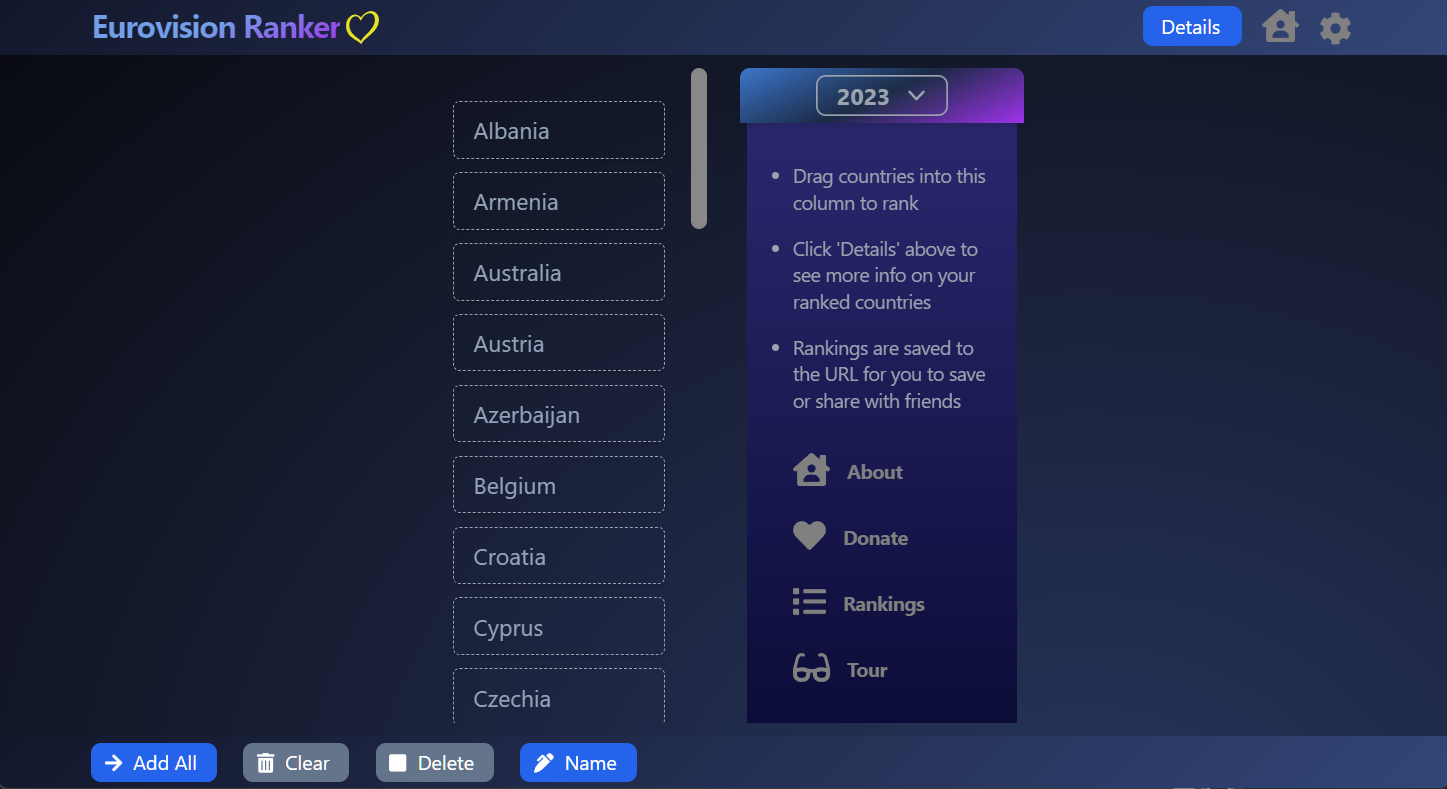
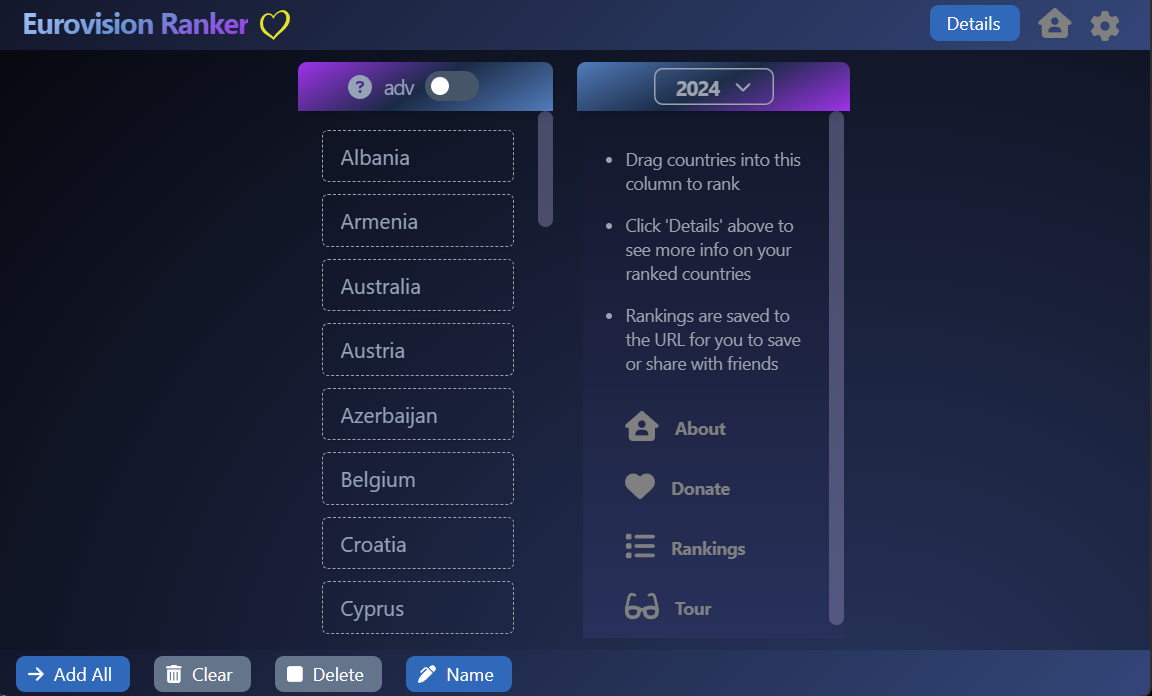
upgrade deps and euro ranker pics

diff --git a/src/components/Eurovision.js b/src/components/Eurovision.js
@@ -11,7 +11,10 @@ const imagePaths = [
   "/images/eurovision-ranker2.png",
   "/images/eurovision-ranker3.png",
   "/images/eurovision-ranker4.png",
-  "/images/eurovision-ranker5.png"
+  "/images/eurovision-ranker5.png",
+  "/images/eurovision-ranker6.png",
+  "/images/eurovision-ranker7.png",
+  "/images/eurovision-ranker8.png"
 ]
 
 class EurovisionRanker extends Component {
